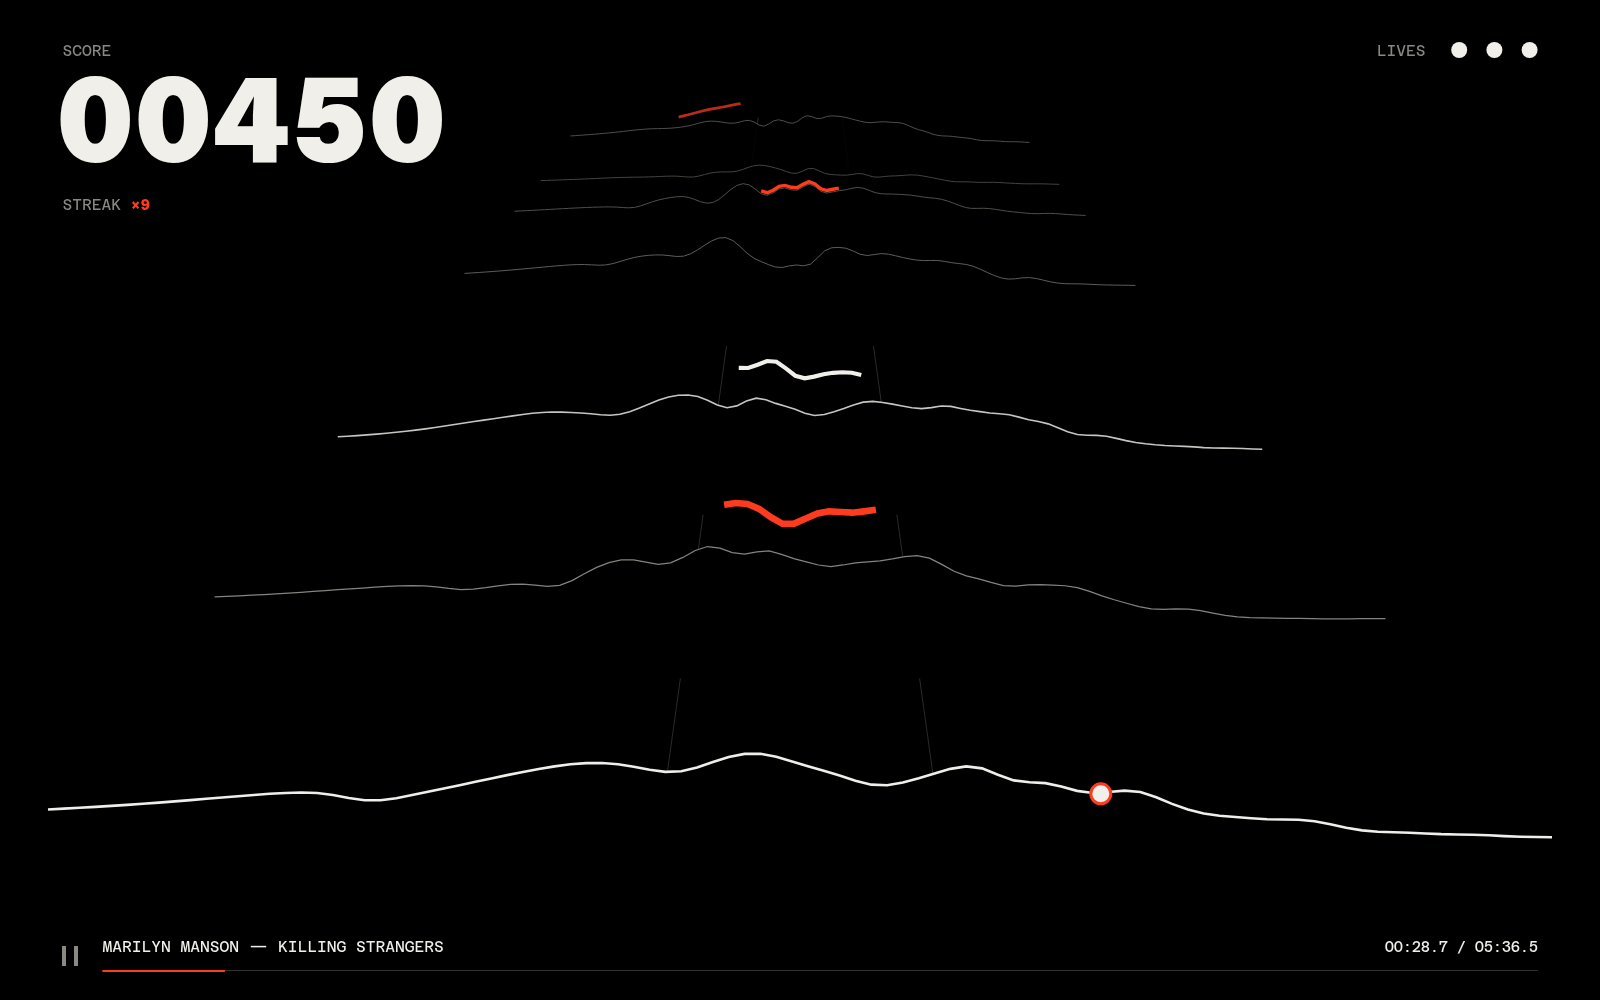
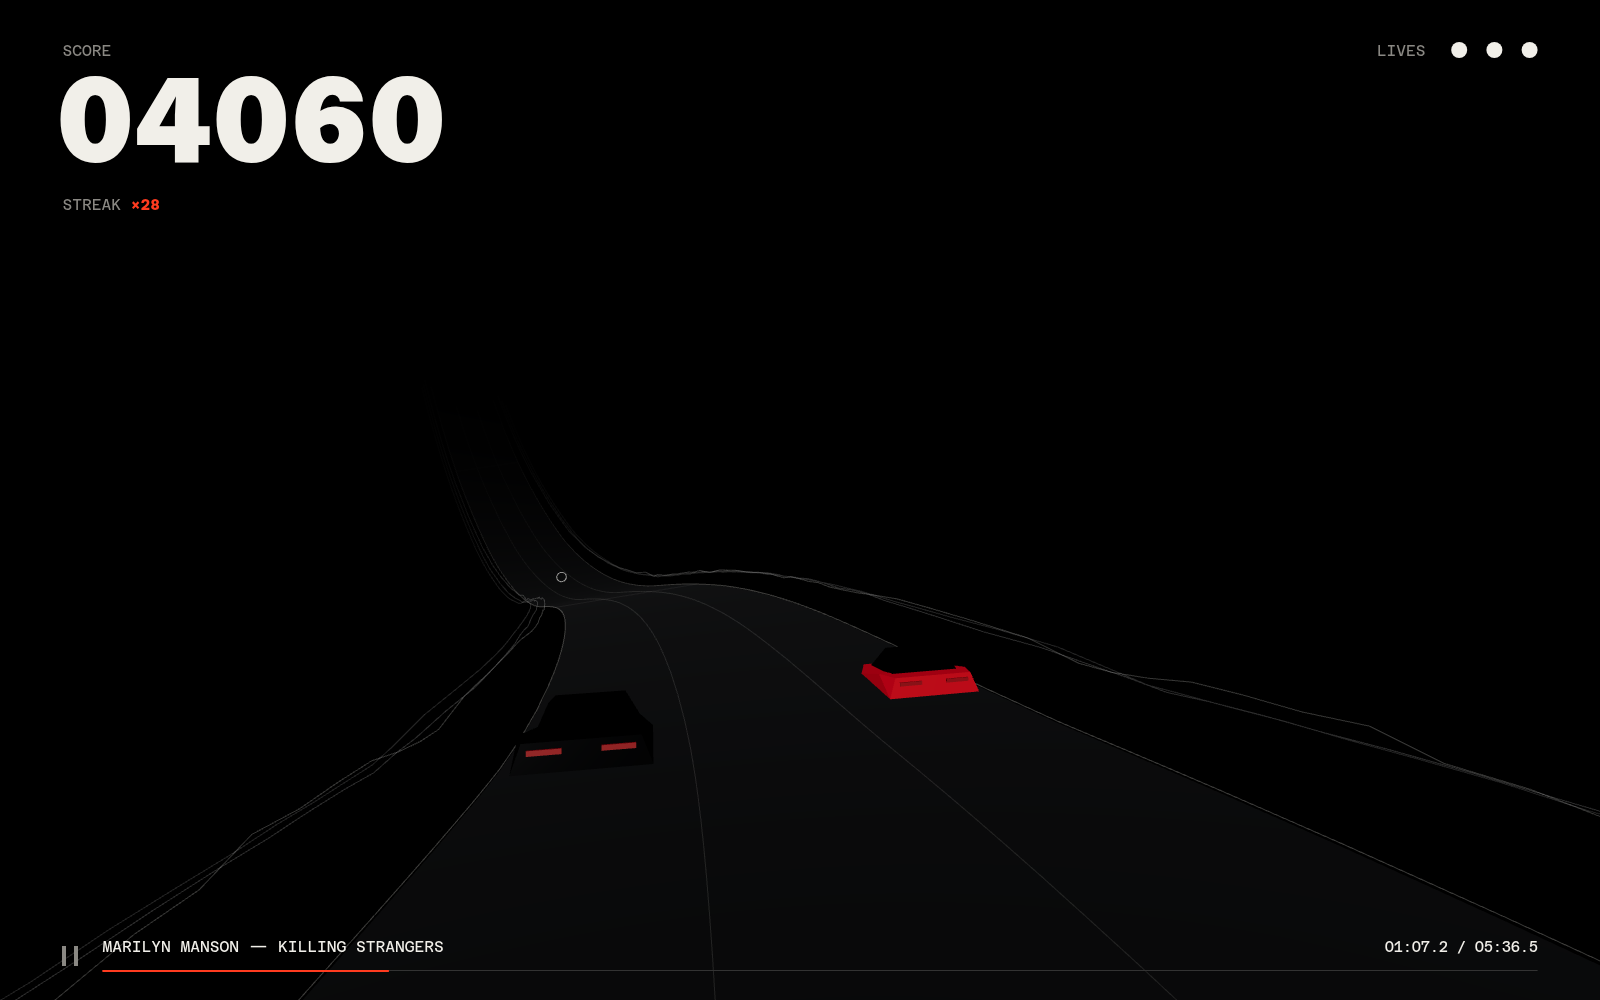
Refine 3D ride visuals and pacing

diff --git a/src/modules/ride/draw/traffic.ts b/src/modules/ride/draw/traffic.ts
@@ -4,11 +4,14 @@ import type { Object3D } from "three";
 import { HOP, RATE } from "@/modules/audio";
 
 import type { Song } from "../song";
+import type { Run } from "../utils/advance";
 import type { Hit } from "../utils/judge";
 import { distance } from "../utils/track";
 import { car } from "./car";
 import { pose } from "./path";
 import { LANE } from "./road";
+
+const COLLECT = 0.1;
 
 export type Traffic = {
 	object: Object3D;
@@ -17,32 +20,57 @@ export type Traffic = {
 	index: number;
 	hit: Hit;
 	gone: boolean;
+	collectedAt?: number;
+	material?: MeshStandardMaterial;
 };
 
-function pickup() {
+function pickup(geometry: TorusGeometry) {
 	const group = new Group();
 	const material = new MeshStandardMaterial({
 		color: 0xf1efe9,
+		emissive: 0xf1efe9,
+		emissiveIntensity: 0.35,
 		metalness: 0.2,
 		roughness: 0.35,
+		transparent: true,
 	});
-	[0.52, 0.35].forEach((radius) => {
-		group.add(new Mesh(new TorusGeometry(radius, 0.045, 8, 32), material));
-	});
-	return group;
+	group.add(new Mesh(geometry, material));
+	return { group, material };
+}
+
+export function update(item: Traffic, run: Run, now: number) {
+	const caught =
+		item.kind === "pickup" &&
+		item.index < run.score.next &&
+		item.hit.lane === run.lane &&
+		Math.abs(item.hit.time - now) <= 0.08;
+	const crashed =
+		item.kind === "block" &&
+		item.index < run.health.next &&
+		item.hit.lane === run.lane &&
+		run.crashed === now;
+	if (caught && item.collectedAt === undefined) item.collectedAt = now;
+	if (crashed) item.gone = true;
+	if (item.collectedAt === undefined) return;
+	const progress = Math.min(1, (now - item.collectedAt) / COLLECT);
+	const wobble = Math.sin(progress * Math.PI) * 0.06;
+	item.object.scale.set(1 + progress * 0.35 + wobble, 1 + progress * 0.2 - wobble, 1);
+	if (item.material) item.material.opacity = (1 - progress) ** 2;
+	if (progress === 1) item.gone = true;
 }
 
 export function traffic(song: Song) {
 	const group = new Group();
 	const items: Traffic[] = [];
-	const token = pickup();
+	const geometry = new TorusGeometry(0.48, 0.055, 8, 32);
 	song.pickups.forEach((hit, index) => {
 		const frame = (hit.time * RATE) / HOP;
-		const object = token.clone();
+		const { group: object, material } = pickup(geometry);
 		pose(object, song.road, frame, (hit.lane - 1) * LANE, 0.85);
 		group.add(object);
 		items.push({
 			object,
+			material,
 			distance: distance({ track: song.track, frame }),
 			kind: "pickup",
 			index,
@@ -50,8 +78,8 @@ export function traffic(song: Song) {
 			gone: false,
 		});
 	});
-	const obstacle = car(0xa82318);
-	obstacle.scale.setScalar(0.85);
+	const obstacle = car(0xd9342b);
+	obstacle.scale.setScalar(0.95);
 	song.blocks.forEach((hit, index) => {
 		const frame = (hit.time * RATE) / HOP;
 		const object = obstacle.clone();

diff --git a/src/modules/ride/draw/scene.ts b/src/modules/ride/draw/scene.ts
@@ -19,7 +19,9 @@ import { distance } from "../utils/track";
 import { follow } from "./camera";
 import { car } from "./car";
 import { course, dispose } from "./course";
+import { align } from "./path";
 import { LANE } from "./road";
+import { update } from "./traffic";
 import type { Traffic } from "./traffic";
 
 type Frame = { song: Song; run: Run; now: number };
@@ -33,6 +35,7 @@ export class World {
 	private player = car();
 	private traffic: Traffic[] = [];
 	private song?: Song;
+	private now = 0;
 	private width = 0;
 	private height = 0;
 
@@ -48,7 +51,7 @@ export class World {
 		const light = new DirectionalLight(0xffffff, 2.5);
 		light.position.set(-6, 12, 8);
 		light.target.position.set(0, 0, -12);
-		this.camera.position.set(0, 5.8, 12.5);
+		this.camera.position.set(0, 5.8, 10.5);
 		this.camera.lookAt(0, 0.5, -22);
 		this.scene.add(light, light.target, this.player);
 	}
@@ -64,7 +67,7 @@ export class World {
 	}
 
 	show({ song, run, now }: Frame) {
-		if (song !== this.song) {
+		if (song !== this.song || now < this.now) {
 			if (this.course) dispose(this.course);
 			const next = course(song);
 			this.song = song;
@@ -72,25 +75,20 @@ export class World {
 			this.traffic = next.items;
 			this.scene.add(next.group);
 		}
+		this.now = now;
 		this.resize();
 		const frame = (now * RATE) / HOP;
 		this.player.position.set((run.u - 0.5) * LANE * 5, 0.04, 0);
-		if (this.course) follow(this.camera, this.course, song, frame);
+		if (this.course) {
+			follow(this.camera, this.course, song, frame);
+			align(this.player, this.course, song.road, frame);
+		}
 		const travelled = distance({ track: song.track, frame });
 		this.traffic.forEach((item) => {
 			const ahead = item.distance - travelled;
-			const caught =
-				item.kind === "pickup" &&
-				item.index < run.score.next &&
-				item.hit.lane === run.lane &&
-				Math.abs(item.hit.time - now) <= 0.08;
-			const crashed =
-				item.kind === "block" &&
-				item.index < run.health.next &&
-				item.hit.lane === run.lane &&
-				run.crashed === now;
-			if (caught || crashed) item.gone = true;
-			item.object.visible = !item.gone && ahead > -5 && ahead < VIEW;
+			update(item, run, now);
+			item.object.visible =
+				!item.gone && (item.collectedAt !== undefined || (ahead > -5 && ahead < VIEW));
 		});
 		this.renderer.render(this.scene, this.camera);
 	}

diff --git a/src/modules/ride/utils/road.ts b/src/modules/ride/utils/road.ts
@@ -6,9 +6,24 @@ type Source = { intensity: Float32Array; track: Float32Array };
 
 // AudioSurf's virtual tilt finally becomes visible geometry. Centers are XYZ per audio frame;
 // Z follows the existing ride distance so hits keep their current timing.
+const RELIEF = 1.3;
+const SMOOTHING = 6;
+
+// Ease changes of grade before integrating them into height, rounding hill joints without
+// adding bumps to the finished road. Broader climbs and dives keep their amplitude.
+function soften(slopes: number[]) {
+	for (let pass = 0; pass < SMOOTHING; pass++) {
+		slopes = slopes.map((current, ring, all) => {
+			if (ring === 0 || ring === all.length - 1) return current;
+			return ((all[ring - 1] ?? 0) + 2 * current + (all[ring + 1] ?? 0)) / 4;
+		});
+	}
+	return slopes;
+}
+
 export function road({ intensity, track }: Source) {
 	const ringList = rings(speeds(intensity));
-	const slopes = tilts(ringList);
+	const slopes = soften(tilts(ringList));
 	const centers = new Float32Array(track.length * 3);
 	let ring = 0;
 	let x = 0;
@@ -21,7 +36,7 @@ export function road({ intensity, track }: Source) {
 			const slope = slopes[ring] ?? 0;
 			const heading = Math.sin(distance / 105) * 0.42 + Math.sin(distance / 43) * 0.08;
 			x += Math.sin(heading) * step;
-			y -= Math.sin(slope) * step * 0.75;
+			y -= Math.sin(slope) * step * RELIEF;
 		}
 		centers.set([x, y, -distance], frame * 3);
 	}

diff --git a/src/modules/ride/draw/camera.ts b/src/modules/ride/draw/camera.ts
@@ -4,17 +4,26 @@ import type { Song } from "../song";
 import { distance, PACE } from "../utils/track";
 import { at, FORWARD, forward } from "./path";
 
-// Keep the player and POV fixed: only the road moves. This avoids chase-camera jitter.
+// Damp slopes instead of matching them: hills stay visible without pitching the POV
+// through the road's full climb or dive.
+const PITCH = 0.55;
+const EASE = 0.08;
 export function follow(camera: PerspectiveCamera, course: Group, song: Song, frame: number) {
 	const center = at(song.road, frame);
 	const direction = forward(song.road, frame);
-	course.quaternion.setFromUnitVectors(direction, FORWARD);
+	direction.y *= PITCH;
+	direction.normalize();
+	const target = course.quaternion.clone().setFromUnitVectors(direction, FORWARD);
+	course.quaternion.slerp(target, EASE);
 	course.position.copy(center).multiplyScalar(-1).applyQuaternion(course.quaternion);
 	const speed =
 		(distance({ track: song.track, frame: frame + 1 }) -
 			distance({ track: song.track, frame })) /
 		PACE;
-	const fov = 58 + Math.min(1.5, Math.max(0, speed)) * 7;
-	camera.fov += (fov - camera.fov) * 0.06;
+	const boost = Math.min(1.5, Math.max(0, speed));
+	const fov = 58 + boost * 7;
+	const gap = 10.5 + boost * 2.5;
+	camera.fov += (fov - camera.fov) * 0.025;
+	camera.position.z += (gap - camera.position.z) * 0.04;
 	camera.updateProjectionMatrix();
 }

diff --git a/src/modules/ride/utils/speed.ts b/src/modules/ride/utils/speed.ts
@@ -1,7 +1,5 @@
 // The calmest share of full speed.
 const LEAST = 0.1;
-// Share of the song, loudest first, that rides flat out.
-const FULL = 0.2;
 
 const share = ({ intensity, baseline }: { intensity: Float32Array; baseline: number }) =>
 	intensity.map((value) => Math.min(1, Math.max(LEAST, value / (baseline || 1))));
@@ -12,14 +10,4 @@ export function speeds(intensity: Float32Array) {
 	const mean = intensity.reduce((sum, value) => sum + value, 0) / (intensity.length || 1);
 	const peak = intensity.reduce((top, value) => Math.max(top, value), 0);
 	return share({ intensity, baseline: Math.min(peak, 2 * mean) });
-}
-
-// Share of full speed the ride moves at: full from the intensity the song tops only FULL of the
-// time, so a dense wall of sound rides fast where Audiosurf's twice-the-mean is never reached.
-export function rides(intensity: Float32Array) {
-	const sorted = intensity.toSorted();
-	return share({
-		intensity,
-		baseline: sorted[Math.floor((1 - FULL) * (sorted.length - 1))] ?? 1,
-	});
 }

diff --git a/src/modules/ride/utils/__tests__/speed.test.ts b/src/modules/ride/utils/__tests__/speed.test.ts
@@ -1,6 +1,6 @@
 import { describe, expect, it } from "vitest";
 
-import { rides, speeds } from "../speed";
+import { speeds } from "../speed";
 
 // Mean 1, peak 4: the baseline is twice the mean, 2.
 const song = Float32Array.from([0, 0.5, 1, 1, 0.5, 1, 4, 0, 1, 1]);
@@ -18,25 +18,5 @@ describe("speeds", () => {
 
 	it("never stops, even in silence", () => {
 		expect(out[0]).toBeCloseTo(0.1, 5);
-	});
-});
-
-describe("rides", () => {
-	// A slow climb from 1 to 2: the loudest fifth starts at 1.8.
-	const climb = Float32Array.from({ length: 101 }, (_, i) => 1 + i / 100);
-	const out = rides(climb);
-
-	it("rides the loudest fifth flat out", () => {
-		expect(out[80]).toBe(1);
-		expect(out[100]).toBe(1);
-	});
-
-	it("scales below that", () => {
-		expect(out[0]).toBeCloseTo(1 / 1.8, 5);
-	});
-
-	it("ignores how loud the song is mastered", () => {
-		const louder = rides(climb.map((value) => value * 3));
-		expect(louder.every((value, i) => Math.abs(value - Number(out[i])) < 1e-6)).toBe(true);
 	});
 });

diff --git a/src/modules/ride/utils/hits.ts b/src/modules/ride/utils/hits.ts
@@ -17,6 +17,7 @@ const LANES = [0, 1, 2] as const;
 // Rings within which a hit joins the chain it follows, and rings a block keeps from the last hit.
 const CHAIN = 5;
 const SPACING = 11;
+const INTRO = 1;
 
 const seconds = (frame: number) => (frame * HOP) / RATE;
 
@@ -58,7 +59,9 @@ const thin = (spots: Spot[]) =>
 export function hits(speeds: Float32Array) {
 	const laid = rings(speeds);
 	const found = swells(maxima(tilts(laid)));
-	const spots = thin(chain(split({ found, seed: speeds.length })));
+	const spots = thin(chain(split({ found, seed: speeds.length }))).filter(
+		({ ring }) => seconds(laid[ring]?.frame ?? 0) >= INTRO
+	);
 	const hit = ({ ring, lane }: Spot): Hit => ({ time: seconds(laid[ring]?.frame ?? 0), lane });
 	return {
 		pickups: spots.filter(({ block }) => !block).map((spot) => hit(spot)),

diff --git a/src/modules/ride/song.ts b/src/modules/ride/song.ts
@@ -5,7 +5,7 @@ import { grid } from "./utils/grid";
 import { hits } from "./utils/hits";
 import type { Hit } from "./utils/judge";
 import { road } from "./utils/road";
-import { rides, speeds } from "./utils/speed";
+import { speeds } from "./utils/speed";
 import { track } from "./utils/track";
 
 export type Song = {
@@ -32,8 +32,7 @@ const title = (name: string) =>
 export function prepare({ analysis, buffer, name }: Source): Song {
 	const { ridges, kicks, beats, intensity } = analysis;
 	const speed = speeds(intensity);
-	// Hits keep Audiosurf's speed; the ride reaches full speed in every song's loudest parts.
-	const path = track({ speeds: rides(intensity), kicks });
+	const path = track({ speeds: speed, kicks });
 	return {
 		buffer,
 		ridges,

diff --git a/src/modules/ride/draw/path.ts b/src/modules/ride/draw/path.ts
@@ -28,6 +28,13 @@ export function side(direction: Vector3) {
 	return new Vector3(-direction.z, 0, direction.x).normalize();
 }
 
+// Match an object outside the course to the road's final, camera-adjusted orientation.
+export function align(object: Object3D, course: Object3D, road: Float32Array, frame: number) {
+	object.quaternion
+		.setFromUnitVectors(FORWARD, forward(road, frame))
+		.premultiply(course.quaternion);
+}
+
 export function pose(object: Object3D, road: Float32Array, frame: number, lane = 0, lift = 0) {
 	const direction = forward(road, frame);
 	object.position.copy(at(road, frame)).addScaledVector(side(direction), lane);

diff --git a/src/modules/ride/draw/car.ts b/src/modules/ride/draw/car.ts
@@ -43,6 +43,8 @@ export function car(color = 0x08090b) {
 	const group = new Group();
 	const paint = new MeshStandardMaterial({
 		color,
+		emissive: color,
+		emissiveIntensity: 0.3,
 		metalness: 0.65,
 		roughness: 0.25,
 		flatShading: true,
